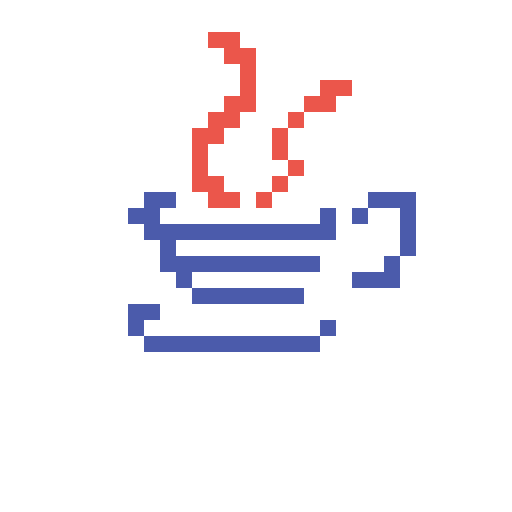
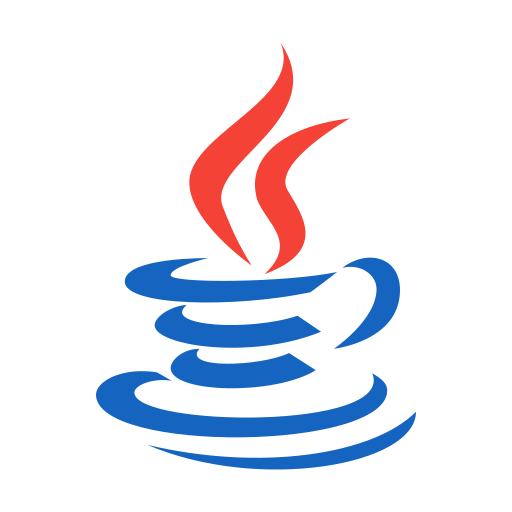
updated photos for skills bubbles

diff --git a/src/components/SkillsSection.jsx b/src/components/SkillsSection.jsx
@@ -1,13 +1,18 @@
-
 import { useEffect, useRef, useState } from "react";
 import "./SkillsSection.css";
 
 // Images from src/assets
 import JavaScript from "../assets/JS.png";
 import HTMLCSS from "../assets/html_css.png";
-import Java from "../assets/Java.png";
-import Vue from "../assets/Vue.png";
+import Java from "../assets/java.png";
+import Vue from "../assets/vue.png";
 import Github from "../assets/github.png";
+import React from "../assets/react-logo.png";
+import Pinia from "../assets/pinia.png";
+import Python from "../assets/Python-logo.png";
+import C from "../assets/C.png";
+import Firebase from "../assets/firebase-logo.png";
+import TMDB from "../assets/TMDB.png";
 
 /**
  * Skill data, grouped by category.
@@ -35,15 +40,15 @@ const SKILL_CATEGORIES = [
       },
       {
         name: "Python",
-        icon: "🐍",
-        isImage: false,
+        icon: Python,
+        isImage: true,
         description:
           "Used for coursework, scripting, and data-focused assignments.",
       },
       {
         name: "C",
-        icon: "🔧",
-        isImage: false,
+        icon: C,
+        isImage: true,
         description:
           "Studied for systems-level programming and memory management.",
       },
@@ -55,8 +60,8 @@ const SKILL_CATEGORIES = [
     skills: [
       {
         name: "React",
-        icon: "⚛",
-        isImage: false,
+        icon: React,
+        isImage: true,
         description:
           "Built this portfolio and my dress-up game with React function components and hooks.",
       },
@@ -89,29 +94,28 @@ const SKILL_CATEGORIES = [
       },
       {
         name: "Firebase",
-        icon: "🔥",
-        isImage: false,
+        icon: Firebase,
+        isImage: true,
         description:
           "Used for authentication and cloud storage in the Movie Library app.",
       },
       {
         name: "Pinia",
-        icon: "🍍",
-        isImage: false,
+        icon: Pinia,
+        isImage: true,
         description:
           "State management library used alongside Vue in the Movie Library app.",
       },
       {
         name: "TMDB API",
-        icon: "🎬",
-        isImage: false,
+        icon: TMDB,
+        isImage: true,
         description:
           "Fetched real movie data to power search, sorting, and browsing.",
       },
     ],
   },
 ];
-
 
 /* =========================================================
    SKILL BUBBLE
@@ -124,11 +128,11 @@ function SkillBubble({ skill }) {
 
   return (
     <div className="skill-bubble-wrapper">
-
       <div
         className="bubble skill-bubble"
         tabIndex={0}
         aria-describedby={descriptionId}
+        aria-label={skill.name}
       >
         {skill.isImage ? (
           <img src={skill.icon} alt={skill.name} />
@@ -137,24 +141,16 @@ function SkillBubble({ skill }) {
             {skill.icon}
           </span>
         )}
-
-        <span className="skill-name">{skill.name}</span>
       </div>
 
       {/* Tooltip */}
-      <div
-        className="skill-tooltip"
-        id={descriptionId}
-        role="tooltip"
-      >
+      <div className="skill-tooltip" id={descriptionId} role="tooltip">
         <strong>{skill.name}</strong>
         <p>{skill.description}</p>
       </div>
-
     </div>
   );
 }
-
 
 /* =========================================================
    CATEGORY ROW
@@ -168,11 +164,9 @@ function SkillCategoryRow({ category }) {
 
   const updateScrollState = () => {
     const row = rowRef.current;
-
     if (!row) return;
 
     setCanScrollLeft(row.scrollLeft > 4);
-
     setCanScrollRight(
       row.scrollLeft + row.clientWidth < row.scrollWidth - 4
     );
@@ -180,9 +174,7 @@ function SkillCategoryRow({ category }) {
 
   useEffect(() => {
     updateScrollState();
-
     window.addEventListener("resize", updateScrollState);
-
     return () => {
       window.removeEventListener("resize", updateScrollState);
     };
@@ -197,13 +189,9 @@ function SkillCategoryRow({ category }) {
 
   return (
     <div className="skill-category">
-
-      <h4 className="skill-category-title">
-        {category.title}
-      </h4>
+      <h4 className="skill-category-title">{category.title}</h4>
 
       <div className="skill-row-wrapper">
-
         <button
           type="button"
           className="skill-scroll-button skill-scroll-left"
@@ -220,10 +208,7 @@ function SkillCategoryRow({ category }) {
           onScroll={updateScrollState}
         >
           {category.skills.map((skill) => (
-            <SkillBubble
-              key={skill.name}
-              skill={skill}
-            />
+            <SkillBubble key={skill.name} skill={skill} />
           ))}
         </div>
 
@@ -236,12 +221,10 @@ function SkillCategoryRow({ category }) {
         >
           ›
         </button>
-
       </div>
     </div>
   );
 }
-
 
 /* =========================================================
    SKILLS SECTION
@@ -250,17 +233,11 @@ function SkillCategoryRow({ category }) {
 export default function SkillsSection() {
   return (
     <section id="skills" className="section skills-section">
-
       <h3>Technical Skills</h3>
 
       {SKILL_CATEGORIES.map((category) => (
-        <SkillCategoryRow
-          key={category.title}
-          category={category}
-        />
+        <SkillCategoryRow key={category.title} category={category} />
       ))}
-
     </section>
   );
 }
-

diff --git a/src/components/SkillsSection.css b/src/components/SkillsSection.css
@@ -135,8 +135,8 @@
 }
 
 .skill-bubble img {
-  width: 80px;
-  height: 80px;
+  width: 75px;
+  height: 75px;
   object-fit: contain;
 }
 
@@ -230,7 +230,6 @@
 
   transform: translateX(-50%) rotate(45deg);
 }
-```
 
 
 /* =========================================================
